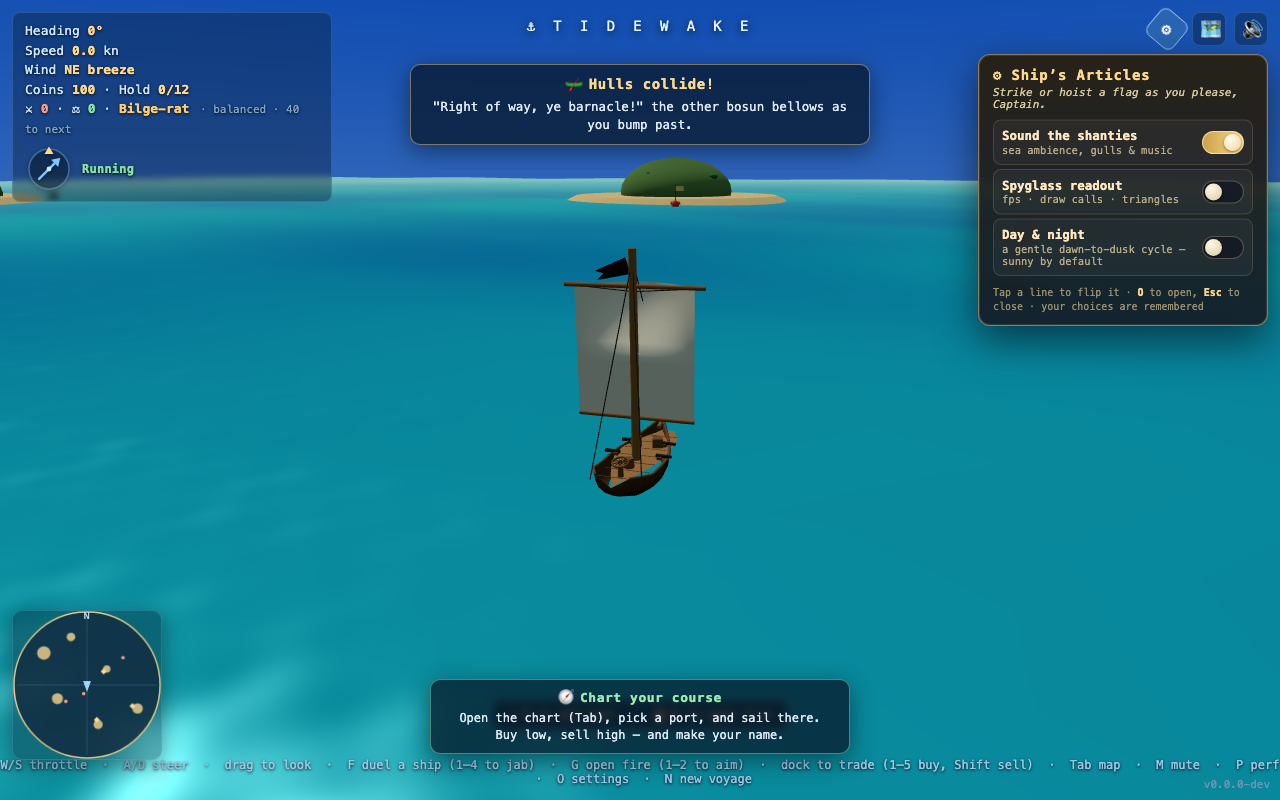
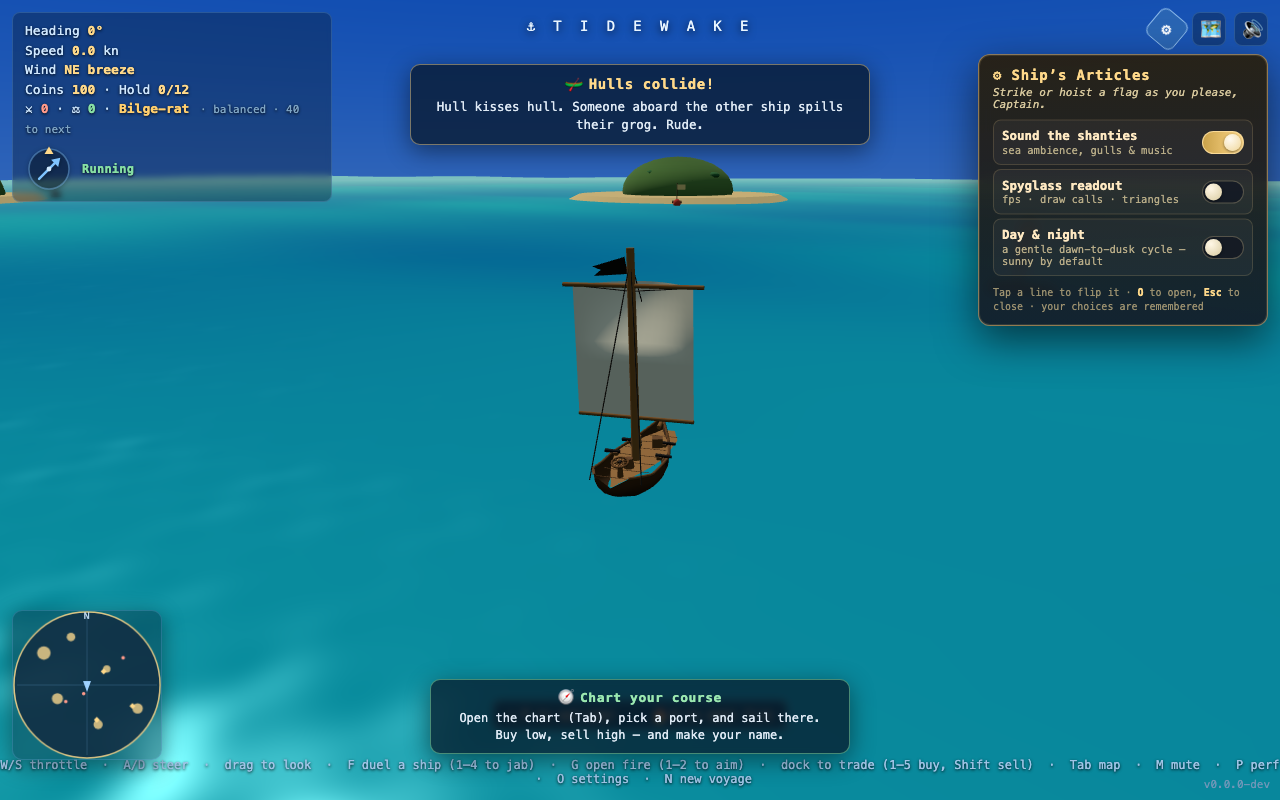
feat: tangential slide polish — glide along coasts & hulls (#76 a2)
Refine arcade collision so angled contact SLIDES instead of stopping dead.
A new shared pure helper slideVelocity(vx,vz,nx,nz) strips only the
into-the-surface (normal) velocity component and keeps the tangential
(sliding) one; resolveCircleCollision/sweepIslandCollision/sweepShipCollision
now return the outward contact normal so both the island and ship-vs-ship
resolvers feed their speed through the one rule. Head-on still bleeds to a
stop; a glancing graze keeps most of its way and glides on. Removes the
displacement/dt speed heuristic (jitter-/substep-free now). CREATIVE SPARK:
a lighter 'scrape… you slip past' SLIPS beat for a glancing graze vs the
head-on SCRAPES groan. Closes the final phase of #76.

diff --git a/src/physics.js b/src/physics.js
@@ -147,6 +147,39 @@ export function dockingUpdate(prevDockedName, pos, ports, radius) {
   return { dockedName, dockedPort, arrived };
 }
 
+// ---- Arcade tangential slide (#76 a2) -------------------------------------------------
+// The polish that makes contact feel arcade-smooth: when the hull touches a coast or another
+// hull at an ANGLE, it should SLIDE along the surface and keep its way — losing only the part of
+// its velocity heading INTO the surface (the normal component), never the part skimming ALONG it
+// (the tangential component). A head-on hit (velocity straight into the surface) loses everything
+// and bleeds to a stop; a glancing graze (velocity nearly parallel) loses almost nothing and
+// glides on. This is the single shared rule both the island and the ship-vs-ship resolvers feed
+// their speed through, so coasts and hulls feel identical underfoot. Pure: numbers in, numbers
+// out. Research-backed feel (Game Developer): "a coast should graze and bleed speed / slide the
+// hull along the shoreline, not halt it dead."
+
+/**
+ * Strip the into-the-surface (normal) component from a velocity, keeping the tangential (sliding)
+ * component intact — the heart of the arcade slide. `(nx,nz)` is the OUTWARD contact normal (the
+ * direction the hull was pushed out of the surface), as the resolvers return it. Velocity heading
+ * AWAY from the surface (or exactly along it) is returned untouched — contact only resists motion
+ * pressing INTO the surface. A zero/degenerate normal (no real contact) is a no-op.
+ *
+ * @param {number} vx  velocity x
+ * @param {number} vz  velocity z
+ * @param {number} nx  outward contact normal x (need not be unit length)
+ * @param {number} nz  outward contact normal z
+ * @returns {{vx:number, vz:number}} velocity with the into-surface component removed
+ */
+export function slideVelocity(vx, vz, nx, nz) {
+  const nLen = Math.hypot(nx, nz);
+  if (nLen < 1e-9) return { vx, vz };          // no contact normal → nothing to slide against
+  const ux = nx / nLen, uz = nz / nLen;        // unit outward normal
+  const vn = vx * ux + vz * uz;                // velocity component along the OUTWARD normal
+  if (vn >= 0) return { vx, vz };              // moving away/along the surface → keep all of it
+  return { vx: vx - vn * ux, vz: vz - vn * uz }; // remove only the into-surface (negative) part
+}
+
 // ---- Arcade island collision (#76 a1 + beach fix) -------------------------------------
 // Islands stop you — but soft and arcade-y, never a brick wall. We collide the hull against
 // a simple SHAPE per island (its visible shoreline), not the jagged beach mesh: cheaper AND
@@ -190,10 +223,13 @@ export const ISLAND_HITBOX = 1.18;
  * coast. Runs a couple of relaxation passes so a hull wedged between two overlapping isles
  * settles instead of ping-ponging. A dead-centre hull is ejected along +x (no divide-by-zero).
  *
+ * Also returns the OUTWARD contact normal `(nx,nz)` — the unit direction the point was net-pushed
+ * out of the surface — so the caller can slide velocity along the coast (#76 a2). Zero when no hit.
+ *
  * @param {{x:number,z:number}} p  hull centre on the x/z sea plane
  * @param {Array<{x:number,z:number,r:number,sx?:number,sz?:number}>} circles  island footprints
  * @param {{shipR?:number, hitbox?:number}} [opts]
- * @returns {{x:number, z:number, hit:boolean}}
+ * @returns {{x:number, z:number, hit:boolean, nx:number, nz:number}}
  */
 export function resolveCircleCollision(p, circles, opts = {}) {
   const shipR = opts.shipR ?? SHIP_RADIUS;
@@ -218,7 +254,13 @@ export function resolveCircleCollision(p, circles, opts = {}) {
     }
     if (!moved) break;
   }
-  return { x, z, hit };
+  // Outward contact normal = the unit direction of the net push-out (#76 a2 slide).
+  let nx = 0, nz = 0;
+  if (hit) {
+    const pxv = x - p.x, pzv = z - p.z, pl = Math.hypot(pxv, pzv);
+    if (pl > 1e-9) { nx = pxv / pl; nz = pzv / pl; }
+  }
+  return { x, z, hit, nx, nz };
 }
 
 /**
@@ -231,8 +273,12 @@ export function resolveCircleCollision(p, circles, opts = {}) {
  * @param {{x:number,z:number}} prev  position before this step
  * @param {{x:number,z:number}} next  integrated position (pre-collision)
  * @param {Array<{x:number,z:number,r:number,sx?:number,sz?:number}>} circles
+ * Also returns the OUTWARD contact normal `(nx,nz)` of the LAST sub-step that touched — the
+ * surface the hull is pressing against at the end of the step — so the caller can slide velocity
+ * along it (#76 a2). Zero when nothing was hit.
+ *
  * @param {{shipR?:number, hitbox?:number, maxStep?:number}} [opts]
- * @returns {{x:number, z:number, hit:boolean}}
+ * @returns {{x:number, z:number, hit:boolean, nx:number, nz:number}}
  */
 export function sweepIslandCollision(prev, next, circles, opts = {}) {
   const shipR = opts.shipR ?? SHIP_RADIUS;
@@ -248,14 +294,14 @@ export function sweepIslandCollision(prev, next, circles, opts = {}) {
   const dist = Math.hypot(dx, dz);
   const steps = Number.isFinite(maxStep) ? Math.max(1, Math.ceil(dist / maxStep)) : 1;
   const stepX = dx / steps, stepZ = dz / steps;
-  let x = prev.x, z = prev.z, hit = false;
+  let x = prev.x, z = prev.z, hit = false, nx = 0, nz = 0;
   for (let i = 0; i < steps; i++) {
     x += stepX; z += stepZ;
     const r = resolveCircleCollision({ x, z }, circles, { shipR, hitbox });
     x = r.x; z = r.z;
-    if (r.hit) hit = true;
+    if (r.hit) { hit = true; nx = r.nx; nz = r.nz; } // keep the LAST contact's outward normal
   }
-  return { x, z, hit };
+  return { x, z, hit, nx, nz };
 }
 
 // ---- Arcade ship-vs-ship collision (#76 b) --------------------------------------------
@@ -297,11 +343,13 @@ export function shipCircles(npcs, r = NPC_RADIUS) {
  * `sweepIslandCollision` with a `hitbox` of 1, because an NPC circle's `r` already IS its
  * forgiving radius (no shoreline inflation): the solid boundary is exactly `r + shipR`. The
  * sweep's sub-stepping still forbids a fast charge tunnelling clean through a smaller vessel.
+ * Returns the same shape as `sweepIslandCollision`, including the outward contact normal
+ * `(nx,nz)` so the player's velocity slides along the other hull (#76 a2).
  * @param {{x:number,z:number}} prev  position before this step
  * @param {{x:number,z:number}} next  integrated position (pre-collision)
  * @param {Array<{x:number,z:number,r:number}>} ships  other vessels' circles (shipCircles())
  * @param {{shipR?:number, maxStep?:number}} [opts]
- * @returns {{x:number, z:number, hit:boolean}}
+ * @returns {{x:number, z:number, hit:boolean, nx:number, nz:number}}
  */
 export function sweepShipCollision(prev, next, ships, opts = {}) {
   return sweepIslandCollision(prev, next, ships, { hitbox: 1, ...opts });

diff --git a/src/sailing.js b/src/sailing.js
@@ -3,7 +3,7 @@
 // the hull on the live swell with bob/roll, and follows with the camera. This is the
 // arcade-sailing heart that used to live inline in main.js's update().
 import * as THREE from 'three';
-import { targetSpeed, approach, steerRate, sweepIslandCollision, sweepShipCollision, shipCircles, settledTargetSpeed, SETTLE_RATE } from './physics.js';
+import { targetSpeed, approach, steerRate, sweepIslandCollision, sweepShipCollision, shipCircles, slideVelocity, settledTargetSpeed, SETTLE_RATE } from './physics.js';
 
 export const MAX_SPEED = 55;
 
@@ -15,6 +15,16 @@ const SCRAPES = [
   'Run aground! Somewhere below, a barrel of rum tips over. Tragedy.',
   'The keel grinds the shallows. "That\'ll buff right out," lies the carpenter.',
   'A crunch of coral. The cook drops the stew. Morale: damp.',
+];
+
+// CREATIVE SPARK (#76 a2): a GLANCING graze along the coast is no groan — the hull skims the
+// shallows and slips on past, keeping its way. A lighter beat than the head-on SCRAPES, so the
+// tone tracks the feel: angled contact glides, it doesn't stop you dead. Throttled + rotated.
+const SLIPS = [
+  'Scrape… and you slip past — the coast lets you off with a warning.',
+  'The keel grazes the shallows; you skim on by, barely losing way.',
+  'A whisper of sand along the hull, then open water again. Smooth, captain.',
+  'You shave the shoreline and slide clear — the lookout exhales.',
 ];
 
 // CREATIVE SPARK (#76 b): graze another captain's hull and the crew hollers across the water —
@@ -133,20 +143,26 @@ export function createSailing({ ship, ocean, camera, input, world, npcs, onRunAg
       const r = sweepIslandCollision({ x: px0, z: pz0 }, { x: state.pos.x, z: state.pos.z }, islands);
       if (r.hit) {
         state.pos.x = r.x; state.pos.z = r.z;
-        // Bleed speed to the GROUND speed we actually made this step: a head-on run-aground
-        // glides to a stop (achieved ≈ 0), a glancing graze keeps its tangential way on. The
-        // throttle/wind easing (approach) does the rest, so it's a soft scrape, not a wall.
-        if (dt > 1e-6) {
-          const achieved = Math.hypot(state.pos.x - px0, state.pos.z - pz0) / dt;
-          if (achieved < state.speed) {
-            // A genuinely HARD grounding (charging in, brought near to a halt) earns a quip.
-            if (typeof onRunAground === 'function' && state.speed > 12 && achieved < state.speed * 0.35 && (t - lastScrapeT) > 5) {
-              lastScrapeT = t;
-              onRunAground(SCRAPES[Math.floor((Math.abs(t * 7.3)) % SCRAPES.length)]);
-            }
-            state.speed = achieved;
+        // #76 a2 — tangential slide: keep the velocity skimming ALONG the coast, lose only the
+        // part pressing INTO it. A head-on charge (velocity straight into the surface) bleeds to a
+        // stop; a glancing graze keeps its way on and glides. One shared rule (slideVelocity +
+        // the resolver's contact normal) drives both the coast and the ship-vs-ship slide.
+        const prevSpeed = state.speed;
+        const slid = slideVelocity(Math.sin(state.heading) * prevSpeed, Math.cos(state.heading) * prevSpeed, r.nx, r.nz);
+        const newSpeed = Math.hypot(slid.vx, slid.vz);
+        // Tone tracks feel: a HARD run-aground groans (SCRAPES); a glancing graze that keeps most
+        // of its way slips past with a lighter line (SLIPS). Throttled so neither ever spams.
+        if (typeof onRunAground === 'function' && prevSpeed > 12 && (t - lastScrapeT) > 5) {
+          const kept = newSpeed / prevSpeed; // 0 = dead-stop, 1 = clean glide
+          if (kept < 0.35) {
+            lastScrapeT = t;
+            onRunAground(SCRAPES[Math.floor((Math.abs(t * 7.3)) % SCRAPES.length)]);
+          } else if (kept < 0.85 && newSpeed > 6) {
+            lastScrapeT = t;
+            onRunAground(SLIPS[Math.floor((Math.abs(t * 6.1)) % SLIPS.length)]);
           }
         }
+        state.speed = newSpeed;
       }
     }
 
@@ -162,16 +178,16 @@ export function createSailing({ ship, ocean, camera, input, world, npcs, onRunAg
         const rs = sweepShipCollision({ x: px0, z: pz0 }, { x: sx, z: sz }, ships);
         if (rs.hit) {
           state.pos.x = rs.x; state.pos.z = rs.z;
-          if (dt > 1e-6) {
-            const achieved = Math.hypot(state.pos.x - px0, state.pos.z - pz0) / dt;
-            if (achieved < state.speed) {
-              if (typeof onBump === 'function' && state.speed > 12 && achieved < state.speed * 0.5 && (t - lastBumpT) > 5) {
-                lastBumpT = t;
-                onBump(BUMPS[Math.floor((Math.abs(t * 5.1)) % BUMPS.length)]);
-              }
-              state.speed = achieved;
-            }
+          // #76 a2 — the SAME tangential slide the coast uses: a head-on shoulder bleeds speed (a
+          // soft pile-up), a glancing bump slides along the other hull and keeps its way on.
+          const prevSpeed = state.speed;
+          const slid = slideVelocity(Math.sin(state.heading) * prevSpeed, Math.cos(state.heading) * prevSpeed, rs.nx, rs.nz);
+          const newSpeed = Math.hypot(slid.vx, slid.vz);
+          if (typeof onBump === 'function' && prevSpeed > 12 && newSpeed < prevSpeed * 0.5 && (t - lastBumpT) > 5) {
+            lastBumpT = t;
+            onBump(BUMPS[Math.floor((Math.abs(t * 5.1)) % BUMPS.length)]);
           }
+          state.speed = newSpeed;
         }
       }
     }